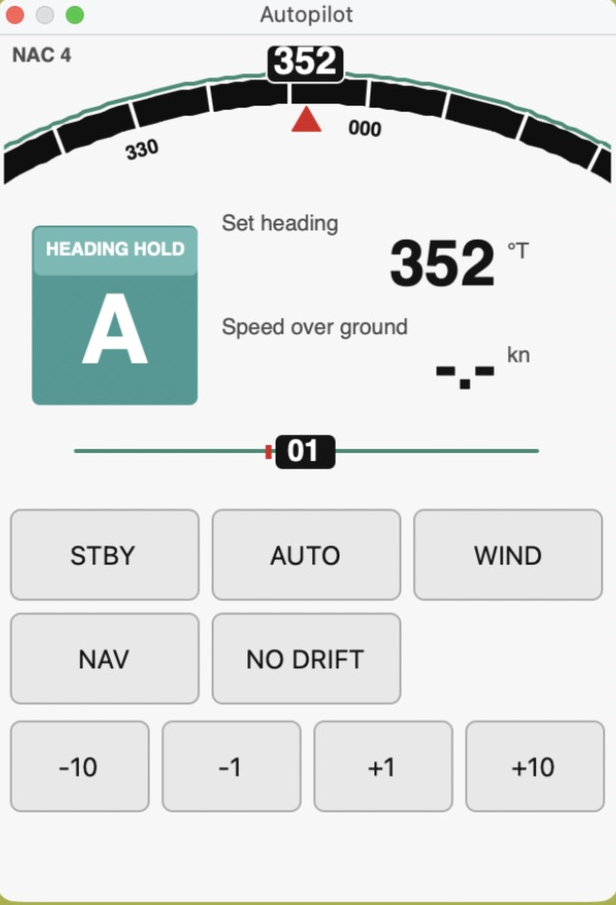
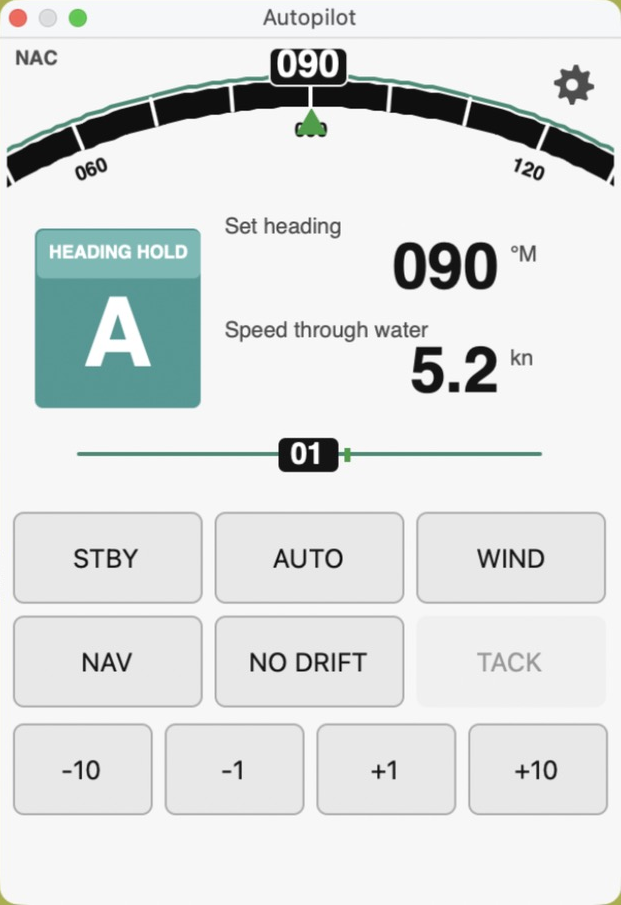
Show speed through the water by default
New installations show STW instead of SOG; a speed source already saved in
the settings stays as it is. Without STW the panel shows "-.-", as it does
without SOG. Only the panel display changes; nothing is sent differently.

Manual: new screenshots with STW, and the NFU row says it is a -/+ button
that is held in standby, not STBY. The simulator also sends a rudder angle,
STW and a heading.

diff --git a/test/sim/wrap0183_sim.js b/test/sim/wrap0183_sim.js
@@ -10,8 +10,10 @@
 // address 4, in Wind mode also 65341 (wind angle to hold, 40 degrees to
 // starboard). With "alarm": an active "Rudder limit" alarm (130850 + 130856)
 // every 8.8 s, as a NAC-3 repeats it, until it is acknowledged (state 0x38);
-// then it is cleared (0x3A). Logs every command it receives and changes the
-// mode as a NAC-3 does. Nothing here talks to a real bus.
+// then it is cleared (0x3A). Also a rudder angle (127245, 1 degree to
+// starboard) and a log with 5.2 kn through the water (128259, address 35), and
+// $IIHDM with the heading for OpenCPN. Logs every command it receives and
+// changes the mode as a NAC-3 does. Nothing here talks to a real bus.
 
 'use strict'
 const net = require('net')
@@ -117,6 +119,13 @@ function status () {
   const hc = [0xff, 0x7f, 0xff, 0x7f, 0xff, raw & 0xff, raw >> 8, 0xff, 0xff, 0xff, 0xff, 0xff,
     0xff, 0xff, 0xff, 0xff, 0xff, 0xff, 0xff, 0xff, 0xff]
   out.push(...encode(127237, 2, PILOT, hc, seq++ & 7))
+  // 127245: rudder position in 0.0001 rad at bytes 4-5, 1 degree to starboard.
+  const rud = Math.round(Math.PI / 180 * 10000)
+  out.push(...encode(127245, 2, PILOT, [0xff, 0xff, 0xff, 0x7f, rud & 0xff, rud >> 8, 0xff, 0xff], 0))
+  // 128259: speed through the water in 0.01 m/s at bytes 1-2, 5.2 kn, from a log at 35.
+  const stw = Math.round(5.2 * 1852 / 3600 * 100)
+  out.push(...encode(128259, 2, 35, [0x00, stw & 0xff, stw >> 8, 0xff, 0xff, 0x00, 0xff, 0xff], 0))
+  out.push(sentence(`IIHDM,${(mode === 'standby' ? 92 : target).toFixed(1)},M`))
   if (mode === 'wind') {
     // 65341, wind mode (3), 40 degrees = 6981 in 0.0001 rad.
     out.push(...encode(65341, 6, PILOT, [0x41, 0x9f, 0xff, 0xff, 0x03, 0xff, 6981 & 0xff, 6981 >> 8], 0))

diff --git a/src/navico_autopilot_pi.h b/src/navico_autopilot_pi.h
@@ -139,7 +139,7 @@ public:
   std::vector<pilot_settings::Snapshot> Snapshots() const;
   /** Address holding the rudder calibration (the chosen rudder sensor). */
   std::optional<uint8_t> RudderNode() const;
-  /** Show speed through the water (128259) instead of OpenCPN's SOG. */
+  /** Show speed through the water (128259, the default) or OpenCPN's SOG. */
   bool UseStw() const { return m_use_stw; }
   /** Waypoint name of OpenCPN's own active leg, if OpenCPN navigates. */
   wxString ActiveWaypoint() const;
@@ -259,7 +259,7 @@ private:
 
   double m_discover_until = 0;
   std::string m_claims_driver;  // connection the address claims were requested on
-  bool m_use_stw = false;
+  bool m_use_stw = true;
   simnet::NfuSide m_nfu = simnet::NfuSide::kStop;
   int m_nfu_stops_left = 0;
   wxTimer m_nfu_timer;

diff --git a/src/navico_autopilot_pi.cpp b/src/navico_autopilot_pi.cpp
@@ -988,8 +988,8 @@ void NavicoAutopilotPi::LoadConfig() {
   unsigned long long raw = 0;
   if (name.ToULongLong(&raw, 16)) m_state.SetPilotName(raw);
   wxString speed;
-  conf->Read("SpeedSource", &speed, "SOG");
-  m_use_stw = speed == "STW";
+  conf->Read("SpeedSource", &speed, "STW");
+  m_use_stw = speed != "SOG";
   wxString rudder;
   conf->Read("RudderName", &rudder, "");
   raw = 0;

diff --git a/README.md b/README.md
@@ -186,7 +186,7 @@ literal echo of each command the pilot executed, 25-55 ms later), 130850 with
 byte 4 = `01` and 130856 (pilot alarms and their text), 127237 (heading to
 steer), 65341 (set wind angle), 127245 (rudder angle, bytes 4-5, positive =
 starboard), 130306 (apparent wind), 129284 (bearing and distance to the
-waypoint), 128259 (speed through the water, if chosen instead of SOG),
+waypoint), 128259 (speed through the water, unless SOG is chosen),
 60928 and 126996 (NAME and model ID, to recognise devices), 129285 (the
 waypoints of the plotter's route, for the name of the destination in
 129284 bytes 20-23; a Zeus sends the names empty). The
